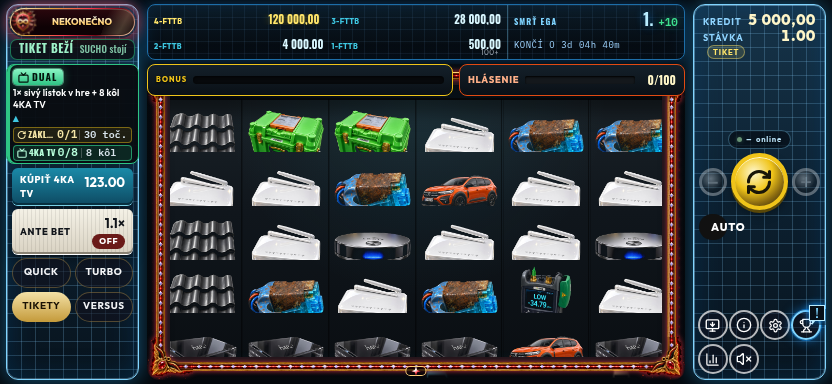
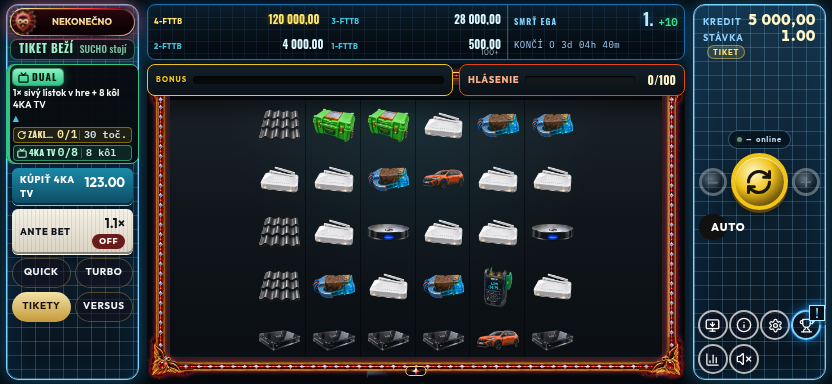
Symboly sú celé v štvorcovej bunke
Bunka je štvorec z užšej strany poľa, obrázok sa zmestí s okrajom. Platí na výšku, na šírku, na tablete aj na Fold.

diff --git a/src/styles.css b/src/styles.css
@@ -911,12 +911,12 @@
   --hw: #39ff88;
   --hw-soft: rgb(57 255 136 / 0.35);
   --hw-bg: rgb(4 14 9 / 0.38);
-  --cell-w: calc((100% - 2 * var(--reel-pad) - 5 * var(--reel-gap)) / 6);
+  --cell-w: var(--cell-h);
   position: absolute;
-  left: var(--reel-pad);
-  top: var(--reel-pad);
-  width: var(--cell-w);
-  height: calc((100% - 2 * var(--reel-pad)) / 5);
+  left: var(--grid-x, var(--reel-pad));
+  top: var(--grid-y, var(--reel-pad));
+  width: var(--cell-h);
+  height: var(--cell-h);
   margin: 0;
   display: grid;
   place-items: center;
@@ -1608,7 +1608,18 @@
   position: relative;
   z-index: 4;
   display: grid;
-  grid-template-columns: repeat(6, 1fr);
+  /* Square cells. --sq is only read on this element, so 100% is the window.
+     --cell-h (px, set from the window box) is the same size once measured. */
+  --sq: min(
+    calc((100% - 2 * var(--reel-pad) - 5 * var(--reel-gap)) / 6),
+    calc((100% - 2 * var(--reel-pad)) / 5)
+  );
+  grid-template-columns: repeat(6, var(--cell-h, var(--sq)));
+  grid-template-rows: calc(5 * var(--cell-h, var(--sq)));
+  justify-content: center;
+  align-content: center;
+  justify-items: stretch;
+  align-items: stretch;
   column-gap: var(--reel-gap);
   flex: 1 1 auto;
   width: 100%;
@@ -1620,11 +1631,6 @@
   overflow: hidden;
   border-radius: 2px;
   background:
-    repeating-linear-gradient(
-      90deg,
-      rgb(0 0 0 / 0.22) 0 1px,
-      transparent 1px calc(100% / 6)
-    ),
     radial-gradient(ellipse at 50% 0%, rgb(62 198 224 / 0.1), transparent 52%),
     linear-gradient(180deg, #1a2228 0%, #10161c 42%, #0a0e12 100%);
   box-shadow:
@@ -1644,7 +1650,10 @@
   position: relative;
   overflow: hidden;
   container-type: size;
+  width: 100%;
   height: 100%;
+  min-width: 0;
+  min-height: 0;
   box-shadow: inset -1px 0 0 rgb(0 0 0 / 0.45);
   /* No idle filter: even brightness(1) makes every column an offscreen render pass each frame while the
      strips scroll. `none` interpolates to the anticipation brightness like brightness(1) did. */
@@ -1937,10 +1946,11 @@
 
 .cell {
   position: relative;
-  /* --cell-h: px cell height from the reel driver's ResizeObserver (Grid.tsx); same value the travel strip uses. */
+  /* --cell-h: square side from the window (min of width/6 and height/5). The travel strip uses the same value. */
   flex: 0 0 var(--cell-h, 20cqh);
   height: var(--cell-h, 20cqh);
   width: 100%;
+  aspect-ratio: 1;
   display: grid;
   place-items: center;
   overflow: hidden;
@@ -1949,8 +1959,14 @@
 .cell-img {
   position: relative;
   z-index: 1;
-  width: 88%;
-  height: 88%;
+  width: 100%;
+  height: 100%;
+  max-width: 100%;
+  max-height: 100%;
+  min-width: 0;
+  min-height: 0;
+  padding: 8%;
+  box-sizing: border-box;
   object-fit: contain;
   object-position: center;
   user-select: none;
@@ -7940,14 +7956,29 @@ html:-webkit-full-screen {
   --reel-gap: 1px;
 }
 
-.stage.shell-mw .cell-img,
-.stage.shell-pwa .cell-img,
-.stage.shell-mw .cell.is-mult .cell-img,
-.stage.shell-pwa .cell.is-mult .cell-img,
-.stage.shell-mw .cell.is-scatter .cell-img,
-.stage.shell-pwa .cell.is-scatter .cell-img {
-  width: 98%;
-  height: 98%;
+.cell > .cell-img,
+.cell.is-scatter > .cell-img,
+.cell.is-mult > .cell-img,
+.cell.is-park > .cell-img,
+.stage.shell-mw .cell > .cell-img,
+.stage.shell-pwa .cell > .cell-img,
+.stage.shell-pc .cell > .cell-img,
+.stage.shell-mw .cell.is-mult > .cell-img,
+.stage.shell-pwa .cell.is-mult > .cell-img,
+.stage.shell-mw .cell.is-scatter > .cell-img,
+.stage.shell-pwa .cell.is-scatter > .cell-img,
+.stage.shell-mw .cell.is-park > .cell-img,
+.stage.shell-pwa .cell.is-park > .cell-img {
+  width: 100%;
+  height: 100%;
+  max-width: 100%;
+  max-height: 100%;
+  min-width: 0;
+  min-height: 0;
+  padding: 8%;
+  box-sizing: border-box;
+  object-fit: contain;
+  object-position: center;
 }
 
 .stage.shell-mw .cell.is-win .cell-img,
@@ -11236,12 +11267,12 @@ html:-webkit-full-screen {
 /* Sticky cells held over a spinning reel: same box as a hack window, static, opaque. */
 .pin-layer { position: absolute; inset: 0; z-index: 7; pointer-events: none; }
 .pin-cell {
-  --cell-w: calc((100% - 2 * var(--reel-pad) - 5 * var(--reel-gap)) / 6);
+  --cell-w: var(--cell-h);
   position: absolute;
-  left: var(--reel-pad);
-  top: var(--reel-pad);
-  width: var(--cell-w);
-  height: calc((100% - 2 * var(--reel-pad)) / 5);
+  left: var(--grid-x, var(--reel-pad));
+  top: var(--grid-y, var(--reel-pad));
+  width: var(--cell-h);
+  height: var(--cell-h);
   display: grid;
   place-items: center;
   background: rgb(10 12 16 / 0.96);

diff --git a/src/components/slot/Grid.tsx b/src/components/slot/Grid.tsx
@@ -370,26 +370,46 @@ export function SlotGrid({
     ),
   );
 
-  // Cell height from a ResizeObserver (no forced layout at spin start). Cells are 20% of the column.
+  // Square cell from the window content box: min(width/6, height/5). Measured here, not at spin start.
   const cellH = useRef(0);
   useLayoutEffect(() => {
     const win = windowRef.current;
-    const col = win?.querySelector<HTMLElement>(":scope > .reel-col");
-    if (!win || !col || typeof ResizeObserver === "undefined") return;
-    const apply = (colH: number) => {
-      if (colH <= 0) return;
-      // Exact 20% of the column (layout-unit precision), identical to the static 20cqh cells, so the landing
-      // hand-off has no sub-pixel jump and rows fill the column exactly; motion itself is composited.
-      const h = Math.round((colH / ROWS) * 64) / 64;
-      if (h === cellH.current) return;
-      cellH.current = h;
-      win.style.setProperty("--cell-h", `${h}px`);
+    if (!win || typeof ResizeObserver === "undefined") return;
+    const apply = (innerW: number, innerH: number) => {
+      if (innerW <= 0 || innerH <= 0) return;
+      const cs = getComputedStyle(win);
+      const gap = Number.parseFloat(cs.columnGap) || 0;
+      const padL = Number.parseFloat(cs.paddingLeft) || 0;
+      const padT = Number.parseFloat(cs.paddingTop) || 0;
+      const cell = Math.round(Math.min((innerW - (COLS - 1) * gap) / COLS, innerH / ROWS) * 64) / 64;
+      if (cell <= 0) return;
+      const gridW = cell * COLS + gap * (COLS - 1);
+      const gridH = cell * ROWS;
+      const originX = padL + (innerW - gridW) / 2;
+      const originY = padT + (innerH - gridH) / 2;
+      if (cell !== cellH.current) {
+        cellH.current = cell;
+        win.style.setProperty("--cell-h", `${cell}px`);
+      }
+      const ox = `${Math.round(originX * 64) / 64}px`;
+      const oy = `${Math.round(originY * 64) / 64}px`;
+      if (win.style.getPropertyValue("--grid-x") !== ox) win.style.setProperty("--grid-x", ox);
+      if (win.style.getPropertyValue("--grid-y") !== oy) win.style.setProperty("--grid-y", oy);
     };
+    const read = () => {
+      const r = win.getBoundingClientRect();
+      const cs = getComputedStyle(win);
+      const padX = (Number.parseFloat(cs.paddingLeft) || 0) + (Number.parseFloat(cs.paddingRight) || 0);
+      const padY = (Number.parseFloat(cs.paddingTop) || 0) + (Number.parseFloat(cs.paddingBottom) || 0);
+      apply(r.width - padX, r.height - padY);
+    };
+    read();
     const ro = new ResizeObserver((entries) => {
       const e = entries[entries.length - 1];
-      apply(e.contentBoxSize?.[0]?.blockSize ?? e.contentRect.height);
+      const box = e.contentBoxSize?.[0];
+      apply(box ? box.inlineSize : e.contentRect.width, box ? box.blockSize : e.contentRect.height);
     });
-    ro.observe(col);
+    ro.observe(win);
     return () => ro.disconnect();
   }, []);
 

diff --git a/src/lib/slot/changelog.ts b/src/lib/slot/changelog.ts
@@ -7,6 +7,7 @@ export interface ChangeNote {
 }
 
 export const CHANGELOG: readonly ChangeNote[] = [
+  { day: "2026-10-15", text: "Symboly sú celé v bunke. Bunka je štvorec podľa užšej strany poľa a obrázok sa zmestí dnu, na výšku aj na šírku." },
   { day: "2026-10-15", text: "Na šírku sa −, + a AUTO zmestia do pravej lišty. Všetkých päť radov valcov je vidno celé. Rank NEKONEČNO sa už neskracuje." },
   { day: "2026-10-15", text: "Na šírku sú valce cez celú výšku medzi lištami. Vľavo je jeden panel: rank, lístok, KÚPIŤ 4KA, ANTE a režimy QUICK / TURBO / TIKETY / VERSUS v mriežke 2×2. Vpravo je kredit so stávkou, veľké točenie s − a + vedľa seba, pod ním AUTO a ikony. Jackpot a SMRŤ EGA sú len nad valcami. Lístok už nesedí na valcoch. Nápis v pozadí je stmavený." },
   { day: "2026-10-15", text: "Na karte EVENT sú Podmienky zbalené. Šípka „Podmienky ▾ Rozbaliť“ ich otvorí, „▴ Zbaliť“ zatvorí. Otvorené podmienky sa rolujú vo vlastnom okne. Hore ostáva odpočet, stav hráča a poradie bez rolovania celej karty." },
